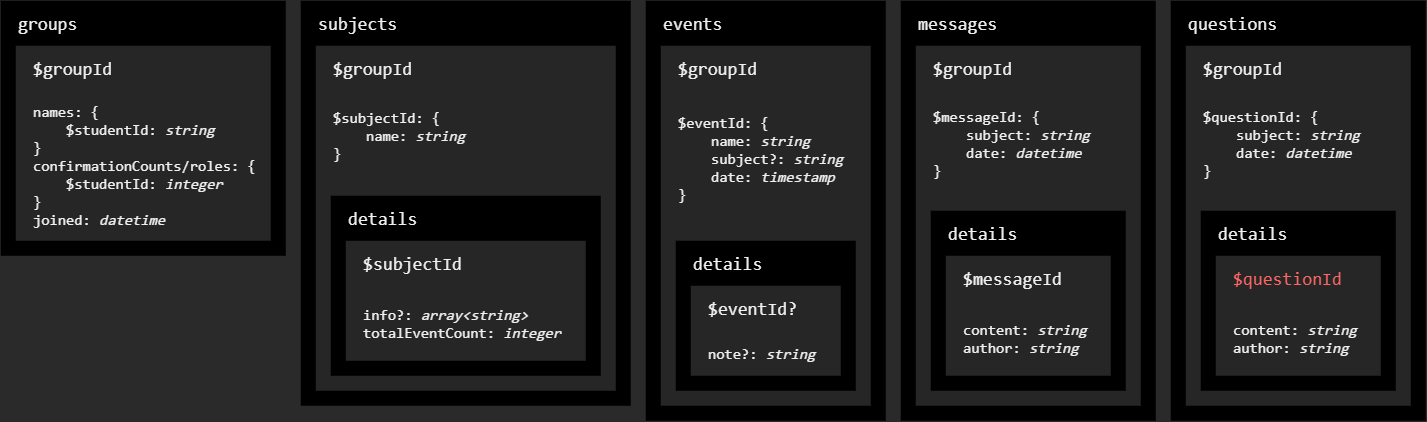
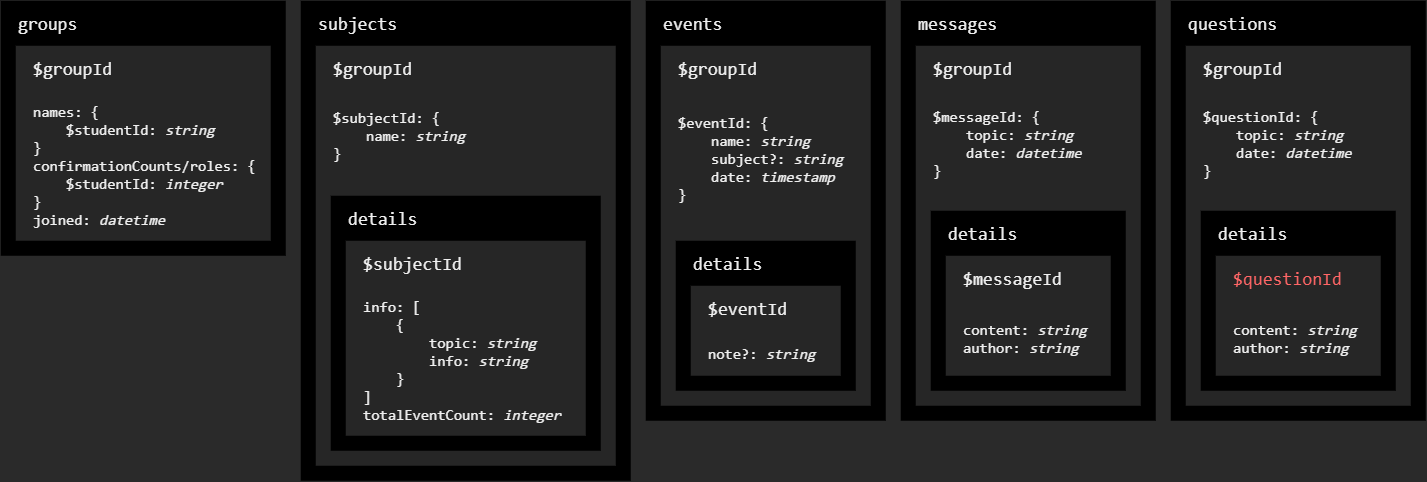
Add topic to the concept of subject information

diff --git a/app/lib/storage/cloud.dart b/app/lib/storage/cloud.dart
@@ -342,7 +342,7 @@ class Cloud {
 	/// Adds a [Subject] with the [name] unless it exists.
 	static Future<void> addSubject({required String name}) async => await _addEntity(
 		collection: Collection.subjects,
-		existingEquals: (existingSubject) => existingSubject == name,
+		existingEquals: (existing) => existing[Field.name.name] == name,
 		entity: {Field.name.name: name},
 		details: {
 			Field.totalEventCount.name: 0,
@@ -366,8 +366,8 @@ class Cloud {
 	}) async {
 		final wasWritten = await _addEntity(
 			collection: Collection.events,
-			existingEquals: (existingEvent) =>
-				existingEvent[Field.name.name] == name && existingEvent[Field.subject.name] == subject?.id,
+			existingEquals: (existing) =>
+				existing[Field.name.name] == name && existing[Field.subject.name] == subject?.id,
 			entity: {
 				Field.name.name: name,
 				Field.subject.name: subject?.id,
@@ -392,13 +392,13 @@ class Cloud {
 
 	/// Adds a [Message] with the arguments unless it exists.
 	static Future<void> addMessage({
-		required String subject,
+		required String topic,
 		required String content,
 	}) async => await _addEntity(
 		collection: Collection.messages,
-		existingEquals: (existingSubject) => existingSubject == subject,
+		existingEquals: (existing) => existing[Field.topic.name] == topic,
 		entity: {
-			Field.subject.name: subject,
+			Field.subject.name: topic,
 			Field.date.name: DateTime.now()
 		},
 		details: {
@@ -415,7 +415,7 @@ class Cloud {
 	/// Returns whether the [entity] was written.
 	static Future<bool> _addEntity({
 		required Collection collection,
-		required bool Function(dynamic existingEntity) existingEquals,
+		required bool Function(Map<String, dynamic> existing) existingEquals,
 		required Object entity,
 		Map<String, Object>? details
 	}) async {

diff --git a/app/lib/ui/main/group_zone/home/sections/entity_pages/message.dart b/app/lib/ui/main/group_zone/home/sections/entity_pages/message.dart
@@ -9,9 +9,9 @@ import 'entity.dart';
 
 
 class MessagePage extends StatefulWidget {
-	final Message _message;
+	final Message message;
 
-	const MessagePage(this._message);
+	const MessagePage(this.message);
 
 	@override
 	State<MessagePage> createState() => _MessagePageState();
@@ -20,19 +20,19 @@ class MessagePage extends StatefulWidget {
 class _MessagePageState extends State<MessagePage> {
 	@override
 	void initState() {
-		widget._message.addDetails().whenComplete(() => setState(() {}));
+		widget.message.addDetails().whenComplete(() => setState(() {}));
 		super.initState();
 	}
 
 	@override
 	Widget build(BuildContext context) {
-		final message = widget._message;
+		final message = widget.message;
 		final author = message.author;
 		final content = message.content;
 
 		return EntityPage(
 			children: [
-				Text(message.subject),
+				Text(message.topic),
 				Text(message.date.fullRepr),
 				if (author != null) Text("from $author"),
 				if (content != null) Text(content)

diff --git a/app/lib/storage/entities/message.dart b/app/lib/storage/entities/message.dart
@@ -6,7 +6,7 @@ import '../fields.dart';
 
 class Message {
 	final String id;
-	final String subject;
+	final String topic;
 	final DateTime date;
 
 	String? author;
@@ -14,7 +14,7 @@ class Message {
 
 	Message.fromCloudFormat(MapEntry<String, dynamic> entry) :
 		id = entry.key,
-		subject = entry.value[Field.subject.name] as String,
+		topic = entry.value[Field.subject.name] as String,
 		date = (entry.value[Field.date.name] as Timestamp).toDate();
 
 	Future<void> addDetails() => Cloud.addMessageDetails(this);

diff --git a/app/lib/ui/main/group_zone/home/sections/messages.dart b/app/lib/ui/main/group_zone/home/sections/messages.dart
@@ -37,7 +37,7 @@ class MessagesSection extends CloudEntitiesSection<MessagesSectionCloudData, Mes
 	@override
 	List<Widget> tiles(BuildContext context, List<Message> messages) => [
 		for (final message in messages) ListTile(
-			title: Text(message.subject),
+			title: Text(message.topic),
 			trailing: Text(message.date.dateRepr),
 			onTap: () => Navigator.of(context).push(MaterialPageRoute(
 				builder: (context) => MessagePage(message)

diff --git a/app/lib/ui/main/group_zone/home/sections/new_entity_pages/message.dart b/app/lib/ui/main/group_zone/home/sections/new_entity_pages/message.dart
@@ -32,7 +32,7 @@ class NewMessagePage extends StatelessWidget {
 
 		Navigator.of(context).pop();
 		Cloud.addMessage(
-			subject: subject,
+			topic: subject,
 			content: content,
 		);
 	}

diff --git a/app/lib/storage/fields.dart b/app/lib/storage/fields.dart
@@ -15,6 +15,7 @@ enum Field {
 	// name
 	totalEventCount,
 	info,
+	topic,
 	subject,
 	date,
 	note,
